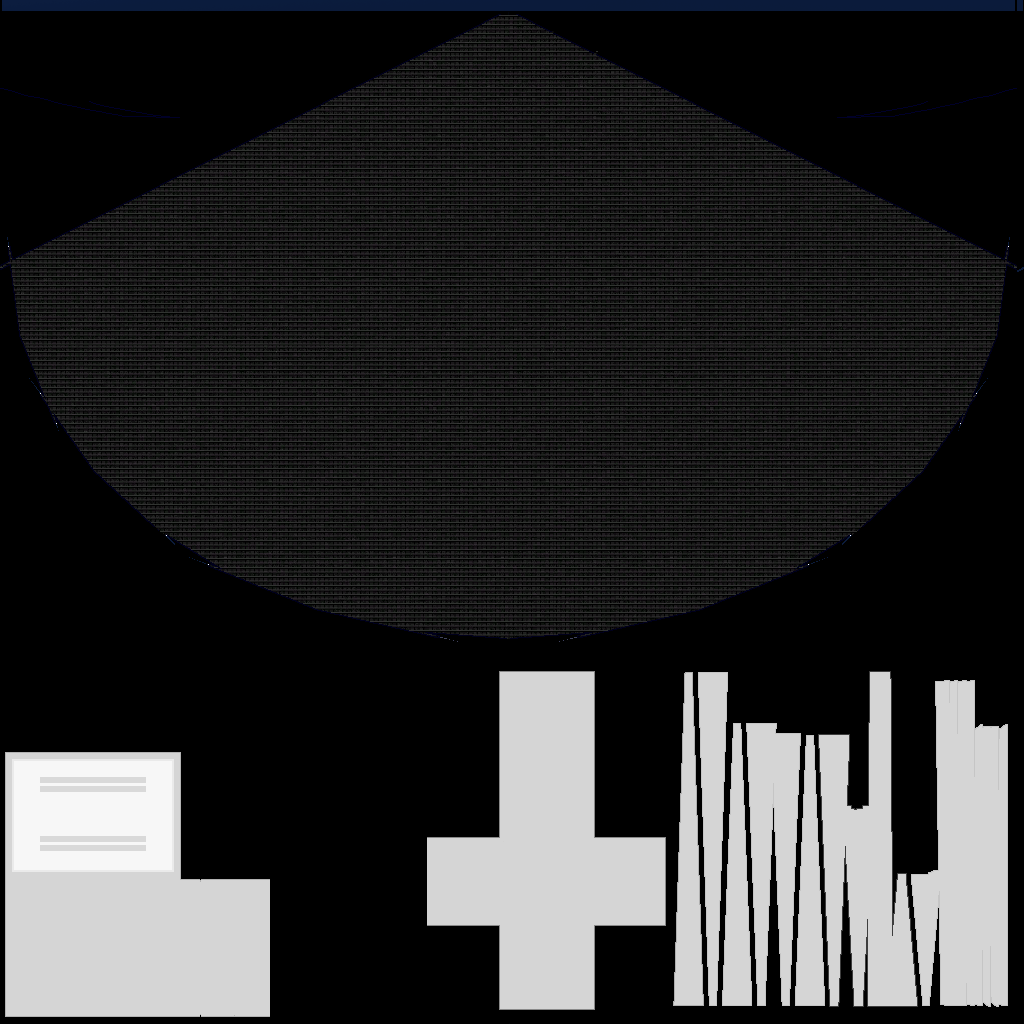
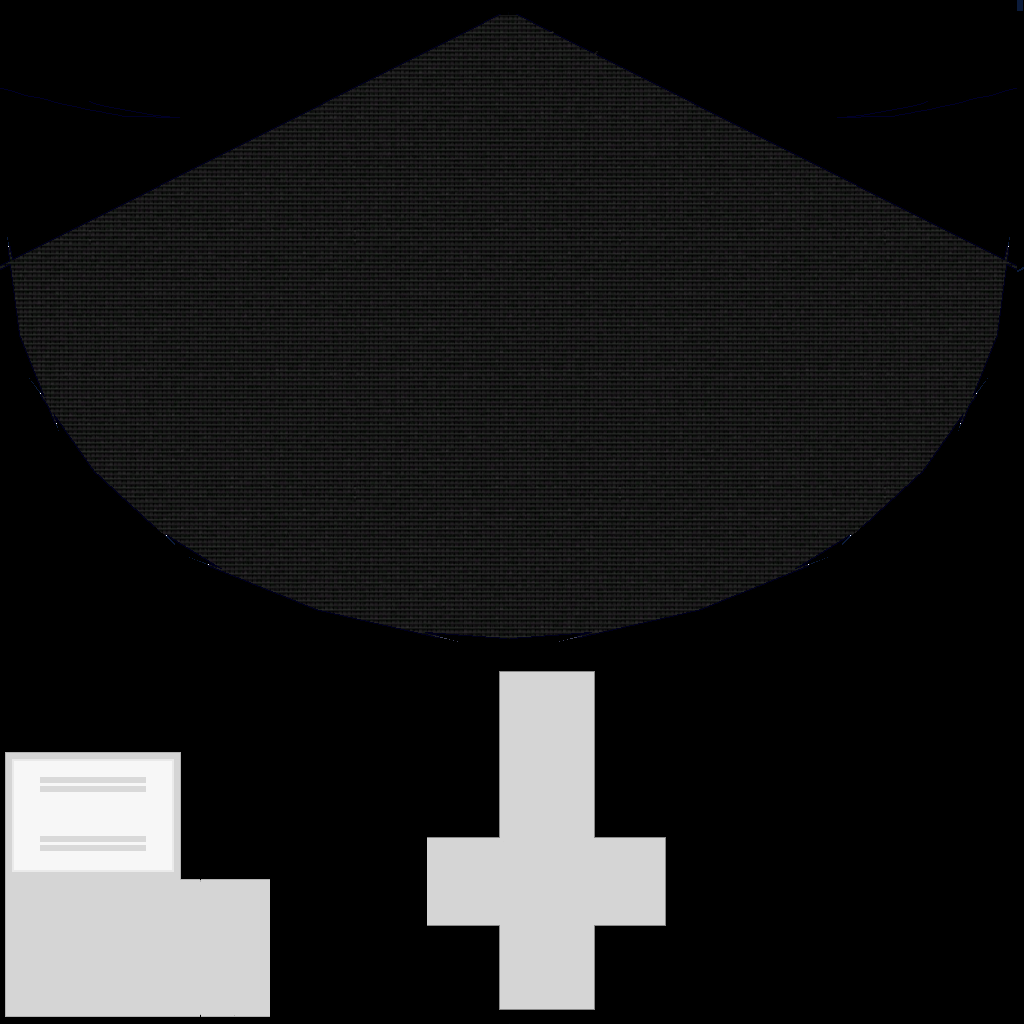
Fixed sudden jump in thrust in thermal engines at  start and end of burn

Changed region(s): [[0.0312, 0.3125, 0.9688, 0.625], [0.0, 0.0, 1.0, 0.25], [0.6562, 0.6562, 1.0, 1.0]]

diff --git a/FNPlugin/Propulsion/ThermalNozzleController.cs b/FNPlugin/Propulsion/ThermalNozzleController.cs
@@ -190,8 +190,8 @@ namespace FNPlugin
         protected double heatExchangerThrustDivisor;
         [KSPField(guiActive = false, guiActiveEditor = false, guiName = "Engine Max Thrust", guiFormat = "F3", guiUnits = " kN")]
         protected double engineMaxThrust;
-        //[KSPField(guiActive = false, guiActiveEditor = false, guiName = "Thrust In Space")]
-        //protected double max_thrust_in_space;
+        [KSPField(guiActive = false, guiActiveEditor = false, guiName = "Thrust In Space")]
+        protected double max_thrust_in_space;
         [KSPField(guiActive = false, guiActiveEditor = false, guiName = "Thrust In Current")]
         protected double max_thrust_in_current_atmosphere;
         [KSPField(guiActive = false, guiActiveEditor = false, guiName = "Final Engine Thrust")]
@@ -202,8 +202,10 @@ namespace FNPlugin
         protected double _minISP;
         [KSPField(guiActive = true, guiActiveEditor = false, guiName = "Max Calculated Thrust", guiFormat = "F3", guiUnits = " kN")]
         protected double calculatedMaxThrust;
-        [KSPField(guiActive = true, guiActiveEditor = false, guiName = "Max Fuel Flow", guiFormat = "F5")]
+        [KSPField(guiActive = false, guiActiveEditor = false, guiName = "Max Fuel Flow", guiFormat = "F5")]
         protected double max_fuel_flow_rate = 0;
+        [KSPField(guiActive = false, guiActiveEditor = false, guiName = "Engine Fuel Flow", guiFormat = "F5")]
+        protected double engineFuelFlow;
         [KSPField(guiActive = false, guiActiveEditor = false, guiName = "Current Isp", guiFormat = "F3")]
         protected double current_isp = 0;
         [KSPField(guiActive = false, guiActiveEditor = true, guiName = "MaxPressureThresshold")]
@@ -247,6 +249,13 @@ namespace FNPlugin
         [KSPField(guiActive = false, guiActiveEditor = false, guiFormat = "F3")]
         public double maximumPowerUsageForPropulsionRatio;
 
+        [KSPField(guiActive = true)]
+        public double powerHeatModifier;
+        [KSPField(guiActive = true)]
+        public double currentThrottle;
+        [KSPField(guiActive = true)]
+        public double requestedThrottle;
+
         [KSPField]
         int pre_coolers_active;
         [KSPField]
@@ -272,7 +281,7 @@ namespace FNPlugin
         protected double _heatDecompositionFraction;
 
         protected float currentAnimatioRatio;
-        protected float trustCounter = 0;
+        protected bool engineWasInactivePreviousFrame = false;
 
         protected float _minDecompositionTemp;
         protected float _maxDecompositionTemp;
@@ -501,7 +510,11 @@ namespace FNPlugin
                     return;
                 }
                 else
+                {
                     UpdateRadiusModifier();
+
+                    UpdateIspEngineParams();
+                }
 
                 // presearch all avaialble precoolers, intakes and nozzles on the vessel
                 _vesselPrecoolers = vessel.FindPartModulesImplementing<FNModulePreecooler>();
@@ -905,12 +918,9 @@ namespace FNPlugin
 
             if (!_currentpropellant_is_jet)
             {
-                atmosphereIspCurve.Add(0, (float)_maxISP * (float)atmosphere_isp_efficiency);
-                atmCurve.Add(0, (float)atmosphere_isp_efficiency);
-                //atmCurve.Add(1, (float)atmosphere_isp_efficiency);
+                atmosphereIspCurve.Add(0, (float)_maxISP * (float)atmosphere_isp_efficiency, 0, 0);
 
-                myAttachedEngine.atmCurve = atmCurve;
-                myAttachedEngine.useAtmCurve = true;
+                myAttachedEngine.useAtmCurve = false;
                 myAttachedEngine.useVelCurve = false;
                 myAttachedEngine.engineAccelerationSpeed = engineAccelerationBaseSpeed * (float)AttachedReactor.ReactorSpeedMult;
                 myAttachedEngine.engineDecelerationSpeed = engineDecelerationBaseSpeed * (float)AttachedReactor.ReactorSpeedMult;
@@ -918,17 +928,6 @@ namespace FNPlugin
             }
             else
             {
-                if (overrideAtmCurve)
-                {
-                    atmCurve.Add(0, 0);
-                    atmCurve.Add(0.045f, 0.25f);
-                    atmCurve.Add(0.16f, 0.55f);
-                    atmCurve.Add(0.5f, 0.8f);
-                    atmCurve.Add(1f, 1f);
-                }
-                else
-                    atmCurve = originalAtmCurve;
-
                 if (overrideVelocityCurve)
                 {
                     if (jetPerformanceProfile == 0)
@@ -971,6 +970,17 @@ namespace FNPlugin
                 }
                 else
                     atmosphereIspCurve = originalAtmosphereCurve;
+
+                if (overrideAtmCurve)
+                {
+                    atmCurve.Add(0, 0);
+                    atmCurve.Add(0.045f, 0.25f);
+                    atmCurve.Add(0.16f, 0.55f);
+                    atmCurve.Add(0.5f, 0.8f);
+                    atmCurve.Add(1f, 1f);
+                }
+                else
+                    atmCurve = originalAtmCurve;
 
                 myAttachedEngine.atmCurve = atmCurve;
                 myAttachedEngine.velCurve = velCurve;
@@ -1053,6 +1063,9 @@ namespace FNPlugin
 
                 if (myAttachedEngine == null) return;
 
+                currentThrottle = myAttachedEngine.currentThrottle;
+                requestedThrottle = myAttachedEngine.requestedThrottle;
+
                 if (_myAttachedReactor.Part != this.part)
                 {
                     resourceBuffers.UpdateVariable(ResourceManager.FNRESOURCE_WASTEHEAT, this.part.mass);
@@ -1096,25 +1109,15 @@ namespace FNPlugin
 
                 UpdateAnimation();
 
-                // prevent instant acceleration at startup
-                if (myAttachedEngine.getIgnitionState)
-                {
-                    if (trustCounter < 100)
-                    {
-                        var allowedThrustRatio = trustCounter / 100f;
-                        if (myAttachedEngine.requestedThrottle > allowedThrustRatio)
-                            myAttachedEngine.currentThrottle = allowedThrustRatio;
-                        trustCounter += (float)AttachedReactor.ReactorSpeedMult;
-                    }
-                }
-                else
-                    trustCounter = 0;
-
-                if (myAttachedEngine.getIgnitionState && myAttachedEngine.currentThrottle >= 0.01)
+                if (myAttachedEngine.getIgnitionState && myAttachedEngine.currentThrottle > 0)
                     GenerateThrustFromReactorHeat();
                 else
                 {
+                    engineWasInactivePreviousFrame = true;
+
                     UpdateMaxIsp();
+
+                    UpdateIspEngineParams();
 
                     expectedMaxThrust = AttachedReactor.MaximumPower * maximumPowerUsageForPropulsionRatio * GetPowerThrustModifier() * GetHeatThrustModifier() / GameConstants.STANDARD_GRAVITY / _maxISP * GetHeatExchangerThrustDivisor();
                     calculatedMaxThrust = expectedMaxThrust;
@@ -1167,6 +1170,7 @@ namespace FNPlugin
 
                     // set engines maximum fuel flow
                     myAttachedEngine.maxFuelFlow = (float)Math.Max(Math.Min(1000, max_fuel_flow_rate), 0.0000000001);
+                    myAttachedEngine.heatProduction = 1;
 
                     if (pulseDuration == 0 && myAttachedEngine is ModuleEnginesFX && !String.IsNullOrEmpty(_particleFXName))
                     {
@@ -1285,11 +1289,17 @@ namespace FNPlugin
 
                 if (availableThermalPower > 0 && _maxISP > 0)
                 {
+                    if (engineWasInactivePreviousFrame)
+                    {
+                        current_isp = _maxISP * 0.01;
+                        engineWasInactivePreviousFrame = false;
+                    }
+
                     var ispRatio = _currentpropellant_is_jet ? current_isp / _maxISP : 1;
 
-                    var powerHeatModifier = GetPowerThrustModifier() * GetHeatThrustModifier();
+                    powerHeatModifier = GetPowerThrustModifier() * GetHeatThrustModifier();
 
-                    engineMaxThrust = Math.Max(powerHeatModifier * power_received / _maxISP / GameConstants.STANDARD_GRAVITY * heatExchangerThrustDivisor * ispRatio / myAttachedEngine.currentThrottle, 0.0001);
+                    engineMaxThrust = Math.Max(powerHeatModifier * power_received / _maxISP / GameConstants.STANDARD_GRAVITY * heatExchangerThrustDivisor, 0.000001);
                     calculatedMaxThrust = maximumPowerUsageForPropulsionRatio * powerHeatModifier * AttachedReactor.MaximumPower / _maxISP / GameConstants.STANDARD_GRAVITY * heatExchangerThrustDivisor * ispRatio;
                 }
                 else
@@ -1298,19 +1308,18 @@ namespace FNPlugin
                     calculatedMaxThrust = 0;
                 }
 
-                //max_thrust_in_space = engineMaxThrust;
+                max_thrust_in_space = engineMaxThrust;
 
-                max_thrust_in_current_atmosphere = engineMaxThrust;
+                max_thrust_in_current_atmosphere = max_thrust_in_space;
 
                 UpdateAtmosphericPresureTreshold();
 
                 // update engine thrust/ISP for thermal noozle
                 if (!_currentpropellant_is_jet)
                 {
-                    max_thrust_in_current_atmosphere = engineMaxThrust;
+                    max_thrust_in_current_atmosphere = Math.Max(max_thrust_in_space - pressureThreshold,  0.0000000001);
 
-                    var thrust_in_current_atmosphere = Math.Max(engineMaxThrust - pressureThreshold, 0.0000000001);
-                    var thrustAtmosphereRatio = engineMaxThrust > 0 ? Math.Max(thrust_in_current_atmosphere / engineMaxThrust, 0.00001) : 0.00001;
+                    var thrustAtmosphereRatio = max_thrust_in_space > 0 ? Math.Max(max_thrust_in_current_atmosphere / max_thrust_in_space, 0.01) : 0.01;
                     UpdateIspEngineParams(thrustAtmosphereRatio);
                     current_isp = _maxISP * thrustAtmosphereRatio;
                     calculatedMaxThrust = Math.Max((calculatedMaxThrust - pressureThreshold), 0.0000000001);
@@ -1351,17 +1360,17 @@ namespace FNPlugin
 
                 if (myAttachedEngine.useAtmCurve && myAttachedEngine.atmCurve != null)
                 {
-                    var ispModifier = Math.Min(1, myAttachedEngine.realIsp / _maxISP);
+                    atmosphereModifier = myAttachedEngine.atmCurve.Evaluate((float)vessel.atmDensity);
 
-                    if (float.IsNaN(atmosphereModifier) || float.IsInfinity(atmosphereModifier))
+                    if (atmosphereModifier > 0 && !float.IsNaN(atmosphereModifier) && !float.IsInfinity(atmosphereModifier))
                     {
-                        max_fuel_flow_rate = 1e-10;
-                        calculatedMaxThrust = 0;
+                        max_fuel_flow_rate = Math.Max(max_fuel_flow_rate * atmosphereModifier, 0.0000000001);
+                        calculatedMaxThrust *= atmosphereModifier;
                     }
                     else
                     {
-                        max_fuel_flow_rate = Math.Max(max_fuel_flow_rate * ispModifier, 0.0000000001);
-                        calculatedMaxThrust *= ispModifier;
+                        max_fuel_flow_rate = 1e-10;
+                        calculatedMaxThrust = 0;
                     }
                 }
 
@@ -1372,7 +1381,7 @@ namespace FNPlugin
                 }
 
                 if (!_currentpropellant_is_jet)
-                    myAttachedEngine.maxThrust = (float)Math.Max(calculatedMaxThrust, 0.000001);
+                    myAttachedEngine.maxThrust = (float)Math.Max(max_thrust_in_current_atmosphere, 0.000001);
                 else
                     myAttachedEngine.maxThrust = (float)Math.Max(engineMaxThrust, 0.000001);
 
@@ -1408,9 +1417,11 @@ namespace FNPlugin
 
                 if (controlHeatProduction)
                 {
-                    engineHeatProduction = (max_fuel_flow_rate >= engineHeatFuelThreshold && _maxISP > 100 && part.mass > 0.0001 && myAttachedEngine.currentThrottle >= 0.01)
-                        ? myAttachedEngine.currentThrottle * Math.Pow(radius, heatProductionExponent) * heatProductionMult * PluginHelper.EngineHeatProduction / max_fuel_flow_rate / _maxISP / part.mass
-                        : 100;
+                    engineFuelFlow = myAttachedEngine.fuelFlowGui * myAttachedEngine.mixtureDensity;
+
+                    engineHeatProduction = (engineFuelFlow >= engineHeatFuelThreshold && _maxISP > 100 && part.mass > 0.0001 && myAttachedEngine.currentThrottle > 0)
+                        ? myAttachedEngine.currentThrottle * Math.Pow(radius, heatProductionExponent) * heatProductionMult * PluginHelper.EngineHeatProduction / engineFuelFlow / _maxISP / part.mass / 2
+                        : 1;
                     engineHeatProduction = Math.Min(engineHeatProduction * (1 + airflowHeatModifier * PluginHelper.AirflowHeatMult), 9999);
                     myAttachedEngine.heatProduction = (float)engineHeatProduction;
                 }
